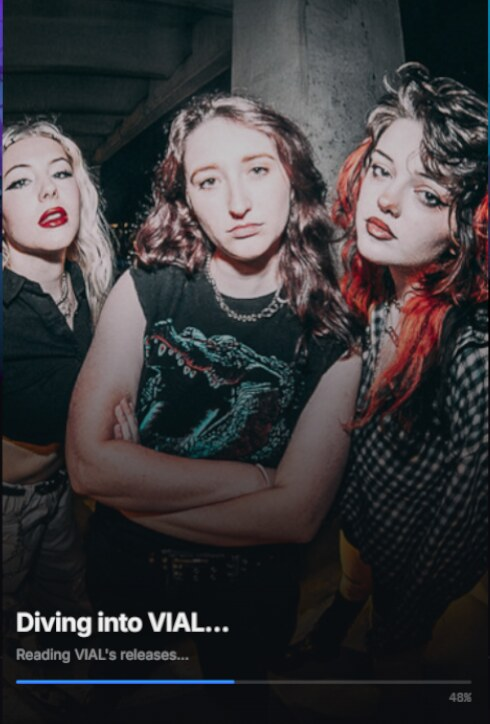
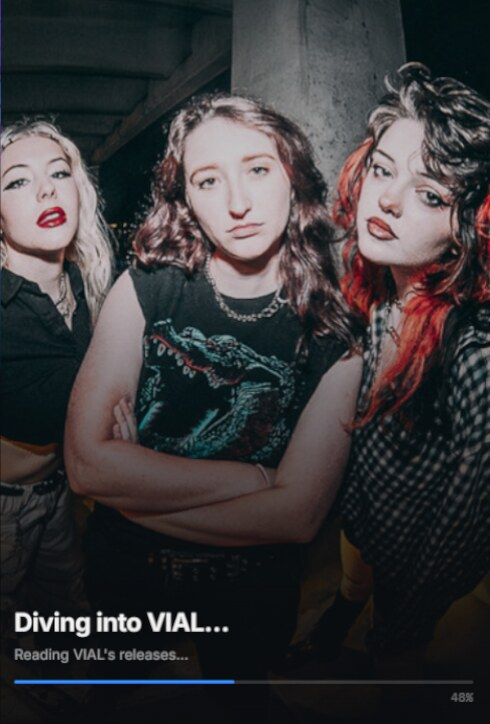
Clean VIAL landing image edges

diff --git a/docs/js/app.js b/docs/js/app.js
@@ -19,14 +19,14 @@ import { bestStore } from "./storage.js";
 import * as history from "./history.js";
 // Version the demo module independently. Mobile browsers were reloading
 // app.js while continuing to execute an older cached demo.js.
-import * as demo from "./demo.js?v=2.9.79";
+import * as demo from "./demo.js?v=2.9.80";
 import * as lastfm from "./lastfm.js";
 import * as cover from "./cover.js";
 
 // Build marker. Twice now, diagnosing a problem has meant reasoning
 // about which version was actually loaded from indirect evidence — slow
 // and easy to get wrong. Showing it removes the guesswork.
-export const BUILD = "2.9.79";
+export const BUILD = "2.9.80";
 
 const client = new SpotifyClient(auth.getToken);
 // Incremental liked-songs cache: read the whole library once, then only

diff --git a/CLAUDE.md b/CLAUDE.md
@@ -3,7 +3,7 @@
 Written for a future session with no memory of this one. Read this
 before touching anything.
 
-**Last updated at build 2.9.79.** If the build in `js/app.js` is well
+**Last updated at build 2.9.80.** If the build in `js/app.js` is well
 ahead of that, treat this file with suspicion and verify against the
 code — then bring it up to date.
 
@@ -159,7 +159,7 @@ confirms them.
 ./tests/run.sh
 ```
 
-1,552 assertions, 57 suites at 2.9.79, plus a syntax check and a boot
+1,553 assertions, 57 suites at 2.9.80, plus a syntax check and a boot
 check. It takes seconds.
 
 **Gate the push on the suite's own result.** `run.sh ... | tail -2 &&
@@ -602,7 +602,7 @@ Modernised in 2.8–2.9 against Spotify and stats.fm as references.
 
 ## Where things stand
 
-Build **2.9.79**, all 2.9.x. **3.0 is the final release, not a next
+Build **2.9.80**, all 2.9.x. **3.0 is the final release, not a next
 step**, and its number is Joseph's to take. The live picture, including
 what to pick up next, is the "Stopping point" section at the top of
 `ROADMAP.md`.

diff --git a/ROADMAP.md b/ROADMAP.md
@@ -234,7 +234,7 @@ clean before anything is built on it.
 
 ---
 
-## Stopping point, 22 Sept (build 2.9.79)
+## Stopping point, 22 Sept (build 2.9.80)
 
 Picking up next session:
 
@@ -244,11 +244,13 @@ Picking up next session:
   seen), 2.9.56 to 2.9.58 onboarding, the Last.fm gating. TESTING.md
   sections 32 to 34.
 
-## Shipped since — build 2.9.79
+## Shipped since — build 2.9.80
 
 Delivered while working through Joseph's review notes, ahead of the
 sessions below:
 
+- Removed the colored side-edge artifact from the VIAL landing capture
+  (2.9.80)
 - Seven final user-cropped landing captures now replace the uneven source
   screenshots without destructive browser-side cropping (2.9.79)
 - Removed the destructive forced landing screenshot crops and restored

diff --git a/TESTING.md b/TESTING.md
@@ -49,6 +49,7 @@
       than being forced into matching-height cover crops
 - [ ] Home, Dive, Mixes, results, Multi-Dip, VIAL and Crate use the final
       consistently sized 490×724 captures
+- [ ] The VIAL capture has no purple or cyan line along either side
 - [ ] Mix cards, Houseghost results, the complete Multi-Dip header and build
       button, VIAL progress, and the Crate's Up next section are all visible
 - [ ] All nine screenshots load; no stale old screenshot appears

diff --git a/CHANGELOG.md b/CHANGELOG.md
@@ -4,6 +4,10 @@
 > stops at the Flask era. The 2.x record lives in the git log and
 > `ROADMAP.md`'s "Shipped since".
 
+## 2.9.80
+- Removed the stray colored side-edge pixels baked into the VIAL landing
+  capture while preserving its 490×724 framing.
+
 ## 2.9.79
 - Replaced seven landing captures with Joseph's final, consistently framed
   490×724 crops for Home, Dive, Mixes, results, Multi-Dip, VIAL and Crate.
